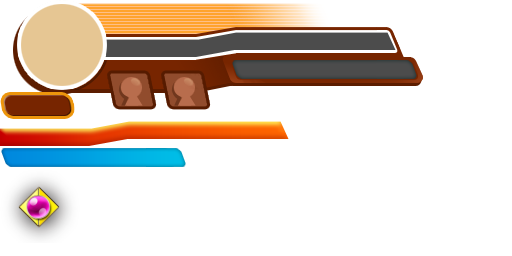
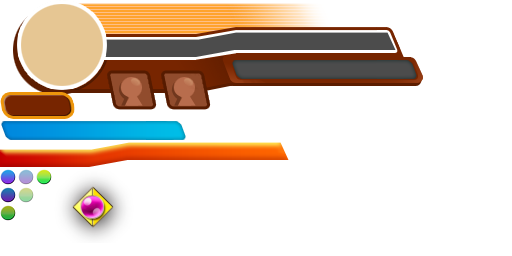
添加奥义手势识别的绘制逻辑

Changed region(s): [[0.0, 0.4688, 0.5625, 0.9375]]

diff --git a/StreetFighter/Classes/CombatScene/View/SuperAttackDisplayer.cpp b/StreetFighter/Classes/CombatScene/View/SuperAttackDisplayer.cpp
@@ -12,18 +12,33 @@ using namespace ui;
 bool CSuperAttackDisplayer::init()
 {
 	m_pDrawNode = cocos2d::DrawNode::create();
+	m_pRunPoints[0] = Sprite::createWithSpriteFrameName("btn-a-0.png");
+	m_pRunPoints[1] = Sprite::createWithSpriteFrameName("btn-a-1.png");
+	m_pRunPoints[2] = Sprite::createWithSpriteFrameName("btn-a-2.png");
+	m_pRunPoints[3] = Sprite::createWithSpriteFrameName("btn-b-2.png");
+	m_pRunPoints[4] = Sprite::createWithSpriteFrameName("btn-b-2.png");
+	m_pRunPoints[5] = Sprite::createWithSpriteFrameName("btn-b-2.png");
+	if(m_pRunPoints[0] && m_pRunPoints[0]->getTexture())
+	{
+		initWithTexture(m_pRunPoints[0]->getTexture(),0);
+		addChild(m_pRunPoints[0]);
+	}
+	for(int i=1;i<6;++i)
+	{
+		if(m_pRunPoints[i])
+		{
+			addChild(m_pRunPoints[i]);
+		}
+	}
 	return true;
 }
 
 void CSuperAttackDisplayer::DrawTriangle()
 {
 	Point points[] = { Point(0.0f,0.0f), Point(100.0f,100.0f), Point(100.0f,0.0f) };
-	m_pDrawNode->drawPolygon(points, sizeof(points)/sizeof(points[0]), Color4F(1,0,0,0.5), 4, Color4F(0,0,1,1));
-}
-
-void CSuperAttackDisplayer::visit( Renderer *renderer, const kmMat4 &parentTransform, bool parentTransformUpdated )
-{
-
+	m_pDrawNode->drawSegment(points[0],points[1],4.0f,Color4F(1,0,0,0.5));
+	m_pDrawNode->drawSegment(points[1],points[2],4.0f,Color4F(1,0,0,0.5));
+	m_pDrawNode->drawSegment(points[2],points[0],4.0f,Color4F(1,0,0,0.5));
 }
 
 void CSuperAttackDisplayer::PostInit()

diff --git a/StreetFighter/Classes/CombatScene/View/CombatView.cpp b/StreetFighter/Classes/CombatScene/View/CombatView.cpp
@@ -1,11 +1,11 @@
 #include "CombatView.h"
-#include "ui\UIButton.h"
 #include "../../Common/CommonDef.h"
 #include "../Controller/CombatController.h"
 #include "../CombatScene.h"
 #include "editor-support/cocostudio/CCSGUIReader.h"
 #include "CombatViewNames.h"
 #include "SuperAttackDisplayer.h"
+#include "../CombatCommonDefine.h"
 USING_NS_CC;
 using namespace ui;
 
@@ -79,6 +79,8 @@ void CCombatView::CreateUILayer()
 		}
 	}
     m_pSuperAttackDisplayer = CSuperAttackDisplayer::create();
+	const Size& winSize = Director::getInstance()->getWinSize();
+	m_pSuperAttackDisplayer->setPosition(winSize.width/2,winSize.height/2);
 	m_pUILayer->addChild(m_pSuperAttackDisplayer);
 	m_pSuperAttackDisplayer->PostInit();
 }
@@ -88,5 +90,19 @@ void CCombatView::SetStatusLabel( const char* status )
 	if(status && m_pStatusLabel)
 	{
 		m_pStatusLabel->setText(status);
+	}
+}
+
+void CCombatView::SetDrawGestureType( int gestureType )
+{
+	m_iGestureType = gestureType;
+	if(m_iGestureType == QTEGestureType_None)
+	{
+		m_pSuperAttackDisplayer->setVisible(false);
+	}
+	else
+	{
+		m_pSuperAttackDisplayer->setVisible(true);
+		m_pSuperAttackDisplayer->SetDrawPath(_GetCombatScene()->GetController()->GetGesturePath(m_iGestureType));
 	}
 }

diff --git a/StreetFighter/Classes/CombatScene/Controller/SpecialTouchHandler.cpp b/StreetFighter/Classes/CombatScene/Controller/SpecialTouchHandler.cpp
@@ -84,3 +84,12 @@ bool CSpTouchHandler::Init()
 	m_allGesture[QTEGestureType_CircleCC] =  m_GemertricRecognizer->normalizePath(CTemplateRecorder::OutputCircleCC());
 	return true;
 }
+
+const DollarRecognizer::Path2D* CSpTouchHandler::GetGesturePath( int gestureType )
+{
+	if(gestureType>= 0 && gestureType < QTEGestureType_Count)
+	{
+		return &m_allGesture[gestureType];
+	}
+	return nullptr;
+}

diff --git a/StreetFighter/Classes/CombatScene/View/CombatView.h b/StreetFighter/Classes/CombatScene/View/CombatView.h
@@ -17,10 +17,12 @@ public:
     CREATE_FUNC(CCombatView);
 	void CreateUILayer();
 	void SetStatusLabel(const char* status);
+	void SetDrawGestureType(int gestureType);
 private:
 	CCombatScene* _GetCombatScene();
 	cocos2d::ui::Text* m_pStatusLabel;
 	CSuperAttackDisplayer* m_pSuperAttackDisplayer;
+	int m_iGestureType;
 };
 
 #endif // __COMBAT_VIEW_H__

diff --git a/StreetFighter/Classes/CombatScene/Controller/SpecialTouchHandler.h b/StreetFighter/Classes/CombatScene/Controller/SpecialTouchHandler.h
@@ -15,6 +15,7 @@ public:
 	virtual ~CSpTouchHandler();
    void OnTouchEvent(cocos2d::Ref *pSender, cocos2d::ui::TouchEventType type);
    bool Init();
+   const DollarRecognizer::Path2D* GetGesturePath(int gestureType);
 private:
 	DollarRecognizer::Path2D m_InputPath;
 	DollarRecognizer::GeometricRecognizer* m_GemertricRecognizer;

diff --git a/StreetFighter/Classes/CombatScene/Controller/CombatController.h b/StreetFighter/Classes/CombatScene/Controller/CombatController.h
@@ -14,6 +14,7 @@ public:
    bool init();
    CREATE_FUNC(CCombatController);
    void OnSpecialInput(const char* input);
+   const DollarRecognizer::Path2D* GetGesturePath(int gestureType) { return m_SpTouchHandler.GetGesturePath(gestureType);}
 private:
 	CSpTouchHandler m_SpTouchHandler;
 	CCombatScene* _GetCombatScene();

diff --git a/StreetFighter/Classes/CombatScene/CombatCommonDefine.h b/StreetFighter/Classes/CombatScene/CombatCommonDefine.h
@@ -6,6 +6,7 @@
 
 enum QTEGestureType
 {
+	QTEGestureType_None = -1,
 	QTEGestureType_Rect = 0,
 	QTEGestureType_RectCC,
 	QTEGestureType_Circle,

diff --git a/StreetFighter/Classes/CombatScene/Controller/CombatController.cpp b/StreetFighter/Classes/CombatScene/Controller/CombatController.cpp
@@ -48,3 +48,4 @@ CCombatScene* CCombatController::_GetCombatScene()
 	}
 	return nullptr;
 }
+
